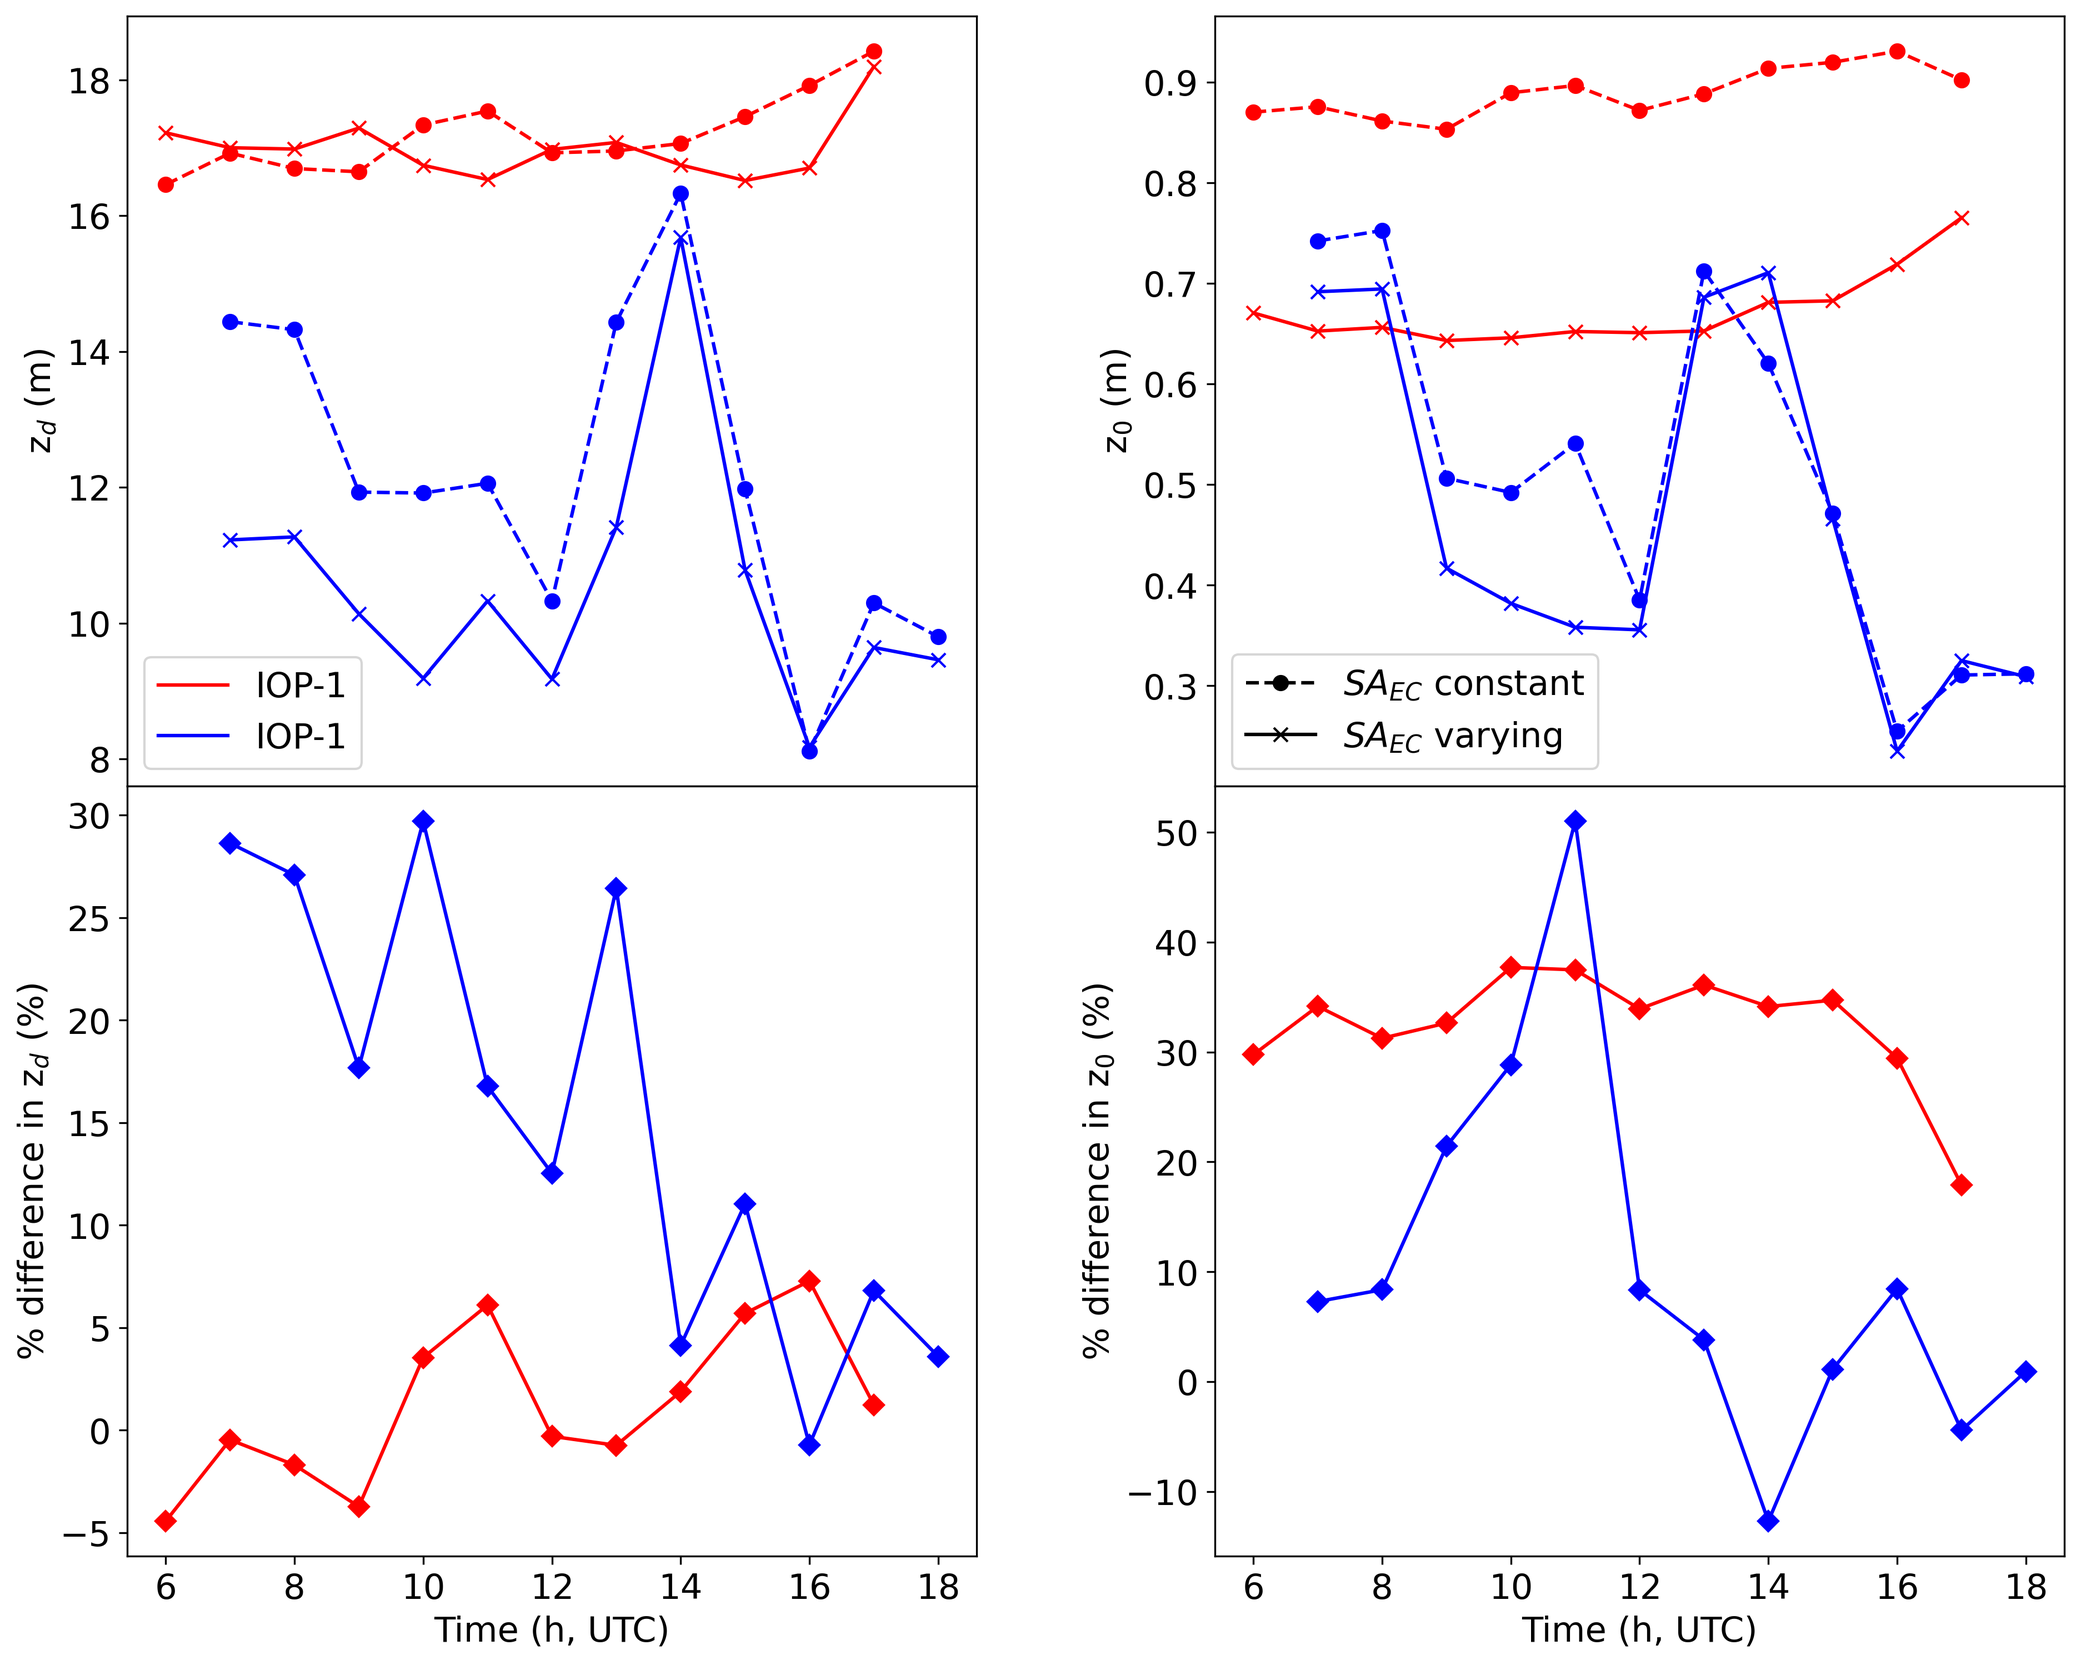
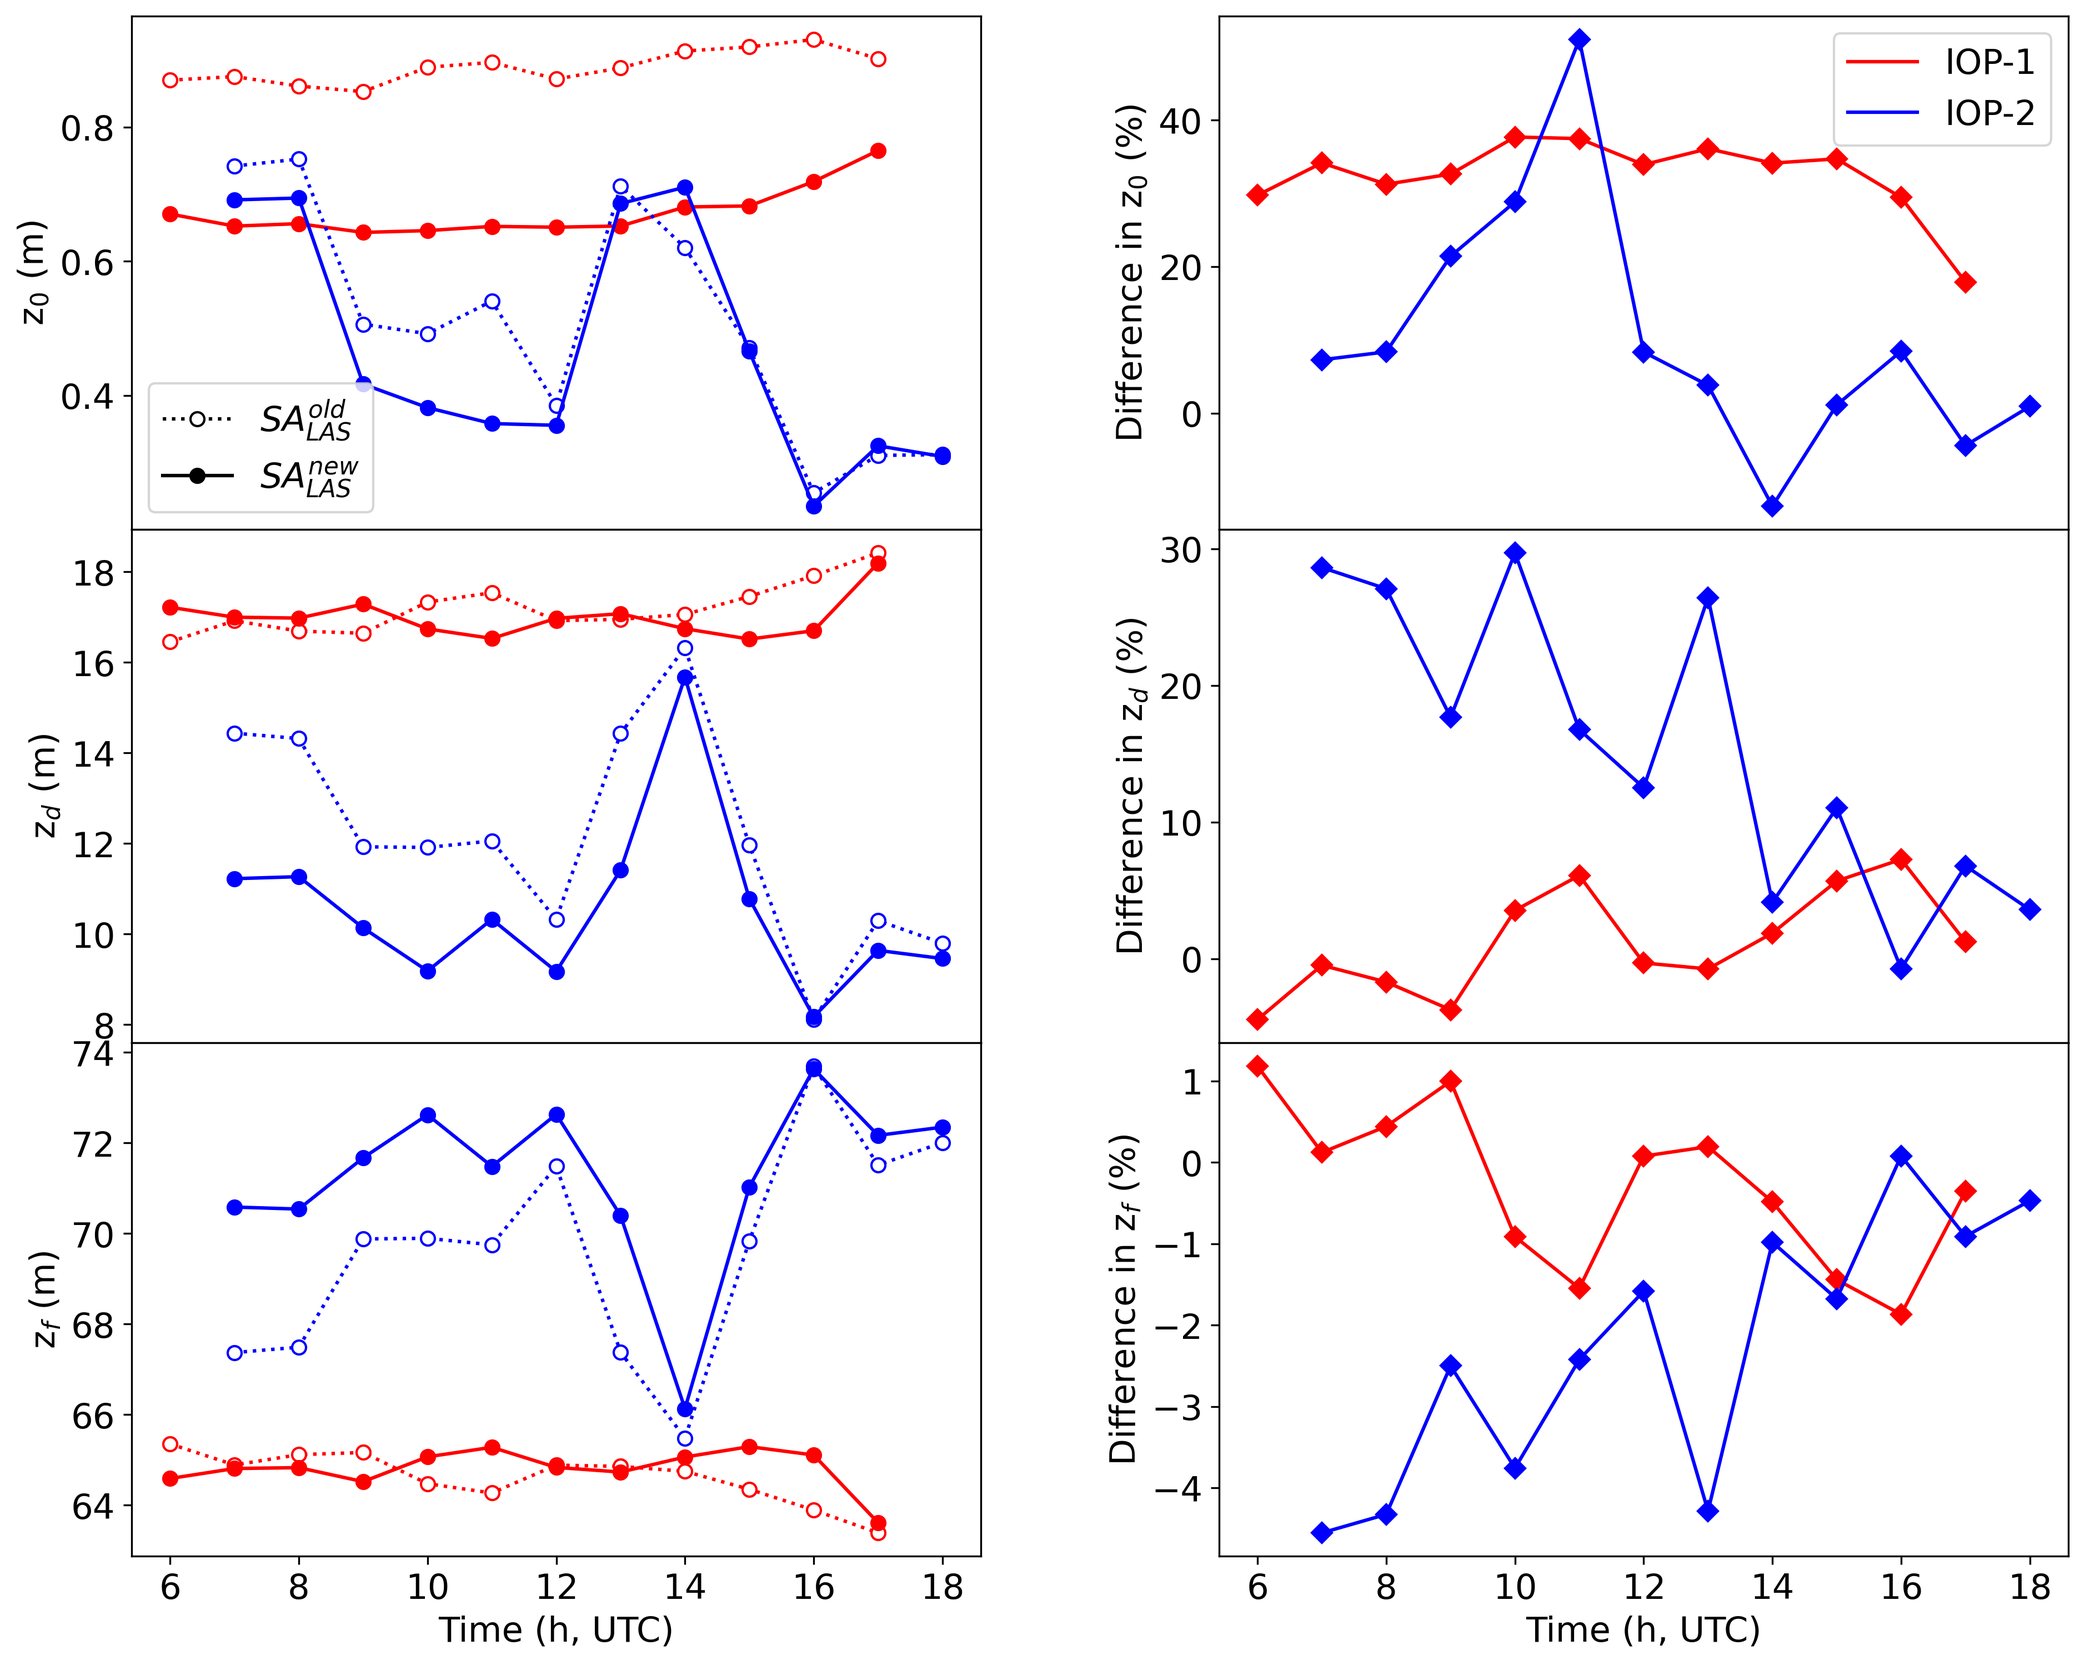
update formats of plots

diff --git a/scint_plots/sa_method_tests/sa_method_tests.py b/scint_plots/sa_method_tests/sa_method_tests.py
@@ -5,8 +5,26 @@ import matplotlib.pyplot as plt
 from matplotlib import gridspec
 import matplotlib as mpl
 import numpy as np
+from scint_flux import run_function
 
 mpl.rcParams.update({'font.size': 15})
+
+
+def retrieve_z_fb(path='BCT_IMU'):
+    """
+
+    :return:
+    """
+
+    bdsm_path = 'D:/Documents/scintools/example_inputs/rasters/height_surface_4m.tif'
+    cdsm_path = 'D:/Documents/scintools/example_inputs/rasters/height_veg_4m.tif'
+    dem_path = 'D:/Documents/scintools/example_inputs/rasters/height_terrain_4m.tif'
+
+    scint_path_dict = run_function.construct_path(path, bdsm_path, cdsm_path, dem_path)
+
+    z_fb = scint_path_dict['z_fb']
+
+    return z_fb
 
 
 def percentage_change(col1, col2):
@@ -82,56 +100,6 @@ def plot_method_tests(df):
     :return:
     """
 
-    # plotting
-    fig = plt.figure(figsize=(15, 12))
-    spec = gridspec.GridSpec(ncols=2, nrows=2)
-
-    ax1 = plt.subplot(spec[0])
-    ax2 = plt.subplot(spec[1])
-    ax3 = plt.subplot(spec[2])
-    ax4 = plt.subplot(spec[3])
-
-    linestyles = {'constant': '--', 'varying': '-'}
-    markers = {'constant': 'o', 'varying': 'x'}
-    colours = {'IOP1': 'red', 'IOP2': 'blue'}
-
-    # zd
-    # IOP1
-    ax1.plot(df.index.values, df.z_d_123_constant.values, marker=markers['constant'], linestyle=linestyles['constant'],
-             color=colours['IOP1'])
-    ax1.plot(df.index.values, df.z_d_123_varying.values, marker=markers['varying'], color=colours['IOP1'],
-             linestyle=linestyles['varying'])
-    # IOP2
-    ax1.plot(df.index.values, df.z_d_126_constant.values, marker=markers['constant'], linestyle=linestyles['constant'],
-             color=colours['IOP2'])
-    ax1.plot(df.index.values, df.z_d_126_varying.values, marker=markers['varying'], color=colours['IOP2'],
-             linestyle=linestyles['varying'])
-
-    ax1.plot([], [], color=colours['IOP1'], label='IOP-1')
-    ax1.plot([], [], color=colours['IOP2'], label='IOP-1')
-    ax1.legend()
-
-    ax1.set_ylabel('z$_{d}$ (m)')
-
-    # z0
-    # IOP1
-    ax2.plot(df.index.values, df.z_0_123_constant.values, marker=markers['constant'], linestyle=linestyles['constant'],
-             color=colours['IOP1'])
-    ax2.plot(df.index.values, df.z_0_123_varying.values, marker=markers['varying'], color=colours['IOP1'],
-             linestyle=linestyles['varying'])
-    # IOP2
-    ax2.plot(df.index.values, df.z_0_126_constant.values, marker=markers['constant'], linestyle=linestyles['constant'],
-             color=colours['IOP2'])
-    ax2.plot(df.index.values, df.z_0_126_varying.values, marker=markers['varying'], color=colours['IOP2'],
-             linestyle=linestyles['varying'])
-
-    ax2.plot([], [], color='black', marker=markers['constant'], linestyle=linestyles['constant'],
-             label='$SA_{EC}$ constant')
-    ax2.plot([], [], color='black', marker=markers['varying'], linestyle=linestyles['varying'], label='$SA_{EC}$ varying')
-    ax2.legend()
-
-    ax2.set_ylabel('z$_{0}$ (m)')
-
     # percentage difference
 
     df['per_diff_zd_123'] = percentage_change(df['z_d_123_varying'], df['z_d_123_constant'])
@@ -140,30 +108,131 @@ def plot_method_tests(df):
     df['per_diff_z0_123'] = percentage_change(df['z_0_123_varying'], df['z_0_123_constant'])
     df['per_diff_z0_126'] = percentage_change(df['z_0_126_varying'], df['z_0_126_constant'])
 
-    print('zd range: ', min([np.abs(df['per_diff_zd_126']).min(), np.abs(df['per_diff_zd_123']).min()]), ' to ', max([np.abs(df['per_diff_zd_126']).max(), np.abs(df['per_diff_zd_123']).max()]))
-    print('z0 range: ', min([np.abs(df['per_diff_z0_126']).min(), np.abs(df['per_diff_z0_123']).min()]), ' to ', max([np.abs(df['per_diff_z0_126']).max(), np.abs(df['per_diff_z0_123']).max()]))
+    print('zd range: ', min([np.abs(df['per_diff_zd_126']).min(), np.abs(df['per_diff_zd_123']).min()]), ' to ',
+          max([np.abs(df['per_diff_zd_126']).max(), np.abs(df['per_diff_zd_123']).max()]))
+    print('z0 range: ', min([np.abs(df['per_diff_z0_126']).min(), np.abs(df['per_diff_z0_123']).min()]), ' to ',
+          max([np.abs(df['per_diff_z0_126']).max(), np.abs(df['per_diff_z0_123']).max()]))
 
+    stats_zd = pd.concat([df['per_diff_zd_126'], df['per_diff_zd_123']]).dropna()
+    over_10_zd = len(np.where(np.abs(stats_zd) > 10)[0])
+    print('zd ', over_10_zd, ' out of ', len(stats_zd))
 
-    # plot
-    # zd
-    # I0P1
-    ax3.plot(df.index.values, df.per_diff_zd_123.values, marker='D', color=colours['IOP1'])
+    stats_z0 = pd.concat([df['per_diff_z0_126'], df['per_diff_z0_123']]).dropna()
+    over_10_z0 = len(np.where(np.abs(stats_z0) > 10)[0])
+    print('z0 ', over_10_z0, ' out of ', len(stats_z0))
 
-    # IOP2
-    ax3.plot(df.index.values, df.per_diff_zd_126.values, marker='D', color=colours['IOP2'])
+    # get effective beam height
+    z_fb = retrieve_z_fb()
 
-    ax3.set_ylabel('% difference in z$_{d}$ (%)')
+    # adding these to the sa method test df
+    df['z_f_123_constant'] = z_fb - df.z_d_123_constant
+    df['z_f_126_constant'] = z_fb - df.z_d_126_constant
+
+    df['z_f_123_varying'] = z_fb - df.z_d_123_varying
+    df['z_f_126_varying'] = z_fb - df.z_d_126_varying
+
+    df['per_diff_zf_123'] = percentage_change(df['z_f_123_varying'], df['z_f_123_constant'])
+    df['per_diff_zf_126'] = percentage_change(df['z_f_126_varying'], df['z_f_126_constant'])
+
+    stats_zf = pd.concat([df['per_diff_zf_126'], df['per_diff_zf_123']]).dropna()
+
+    print('zf range: ', min(np.abs(stats_zf)), ' to ', max(np.abs(stats_zf)))
+
+    # plotting
+    fig = plt.figure(figsize=(15, 12))
+    spec = gridspec.GridSpec(ncols=2, nrows=3)
+
+    ax1 = plt.subplot(spec[0])
+    ax2 = plt.subplot(spec[1])
+    ax3 = plt.subplot(spec[2])
+    ax4 = plt.subplot(spec[3])
+    ax5 = plt.subplot(spec[4])
+    ax6 = plt.subplot(spec[5])
+
+    linestyles = {'constant': ':', 'varying': '-'}
+    markers = {'constant': 'o', 'varying': 'o'}
+    colours = {'IOP1': 'red', 'IOP2': 'blue'}
 
     # z0
-    # I0P1
-    ax4.plot(df.index.values, df.per_diff_z0_123.values, marker='D', color=colours['IOP1'])
+    # IOP1
+    ax1.plot(df.index.values, df.z_0_123_constant.values, marker=markers['constant'], linestyle=linestyles['constant'],
+             color=colours['IOP1'], markerfacecolor='white')
+    ax1.plot(df.index.values, df.z_0_123_varying.values, marker=markers['varying'], color=colours['IOP1'],
+             linestyle=linestyles['varying'])
     # IOP2
-    ax4.plot(df.index.values, df.per_diff_z0_126.values, marker='D', color=colours['IOP2'])
+    ax1.plot(df.index.values, df.z_0_126_constant.values, marker=markers['constant'], linestyle=linestyles['constant'],
+             color=colours['IOP2'],  markerfacecolor='white')
+    ax1.plot(df.index.values, df.z_0_126_varying.values, marker=markers['varying'], color=colours['IOP2'],
+             linestyle=linestyles['varying'])
 
-    ax4.set_ylabel('% difference in z$_{0}$ (%)')
+    ax1.plot([], [], color='black', marker=markers['constant'], linestyle=linestyles['constant'],  markerfacecolor='white',
+             label='$SA_{LAS}^{old}$')
+    ax1.plot([], [], color='black', marker=markers['varying'], linestyle=linestyles['varying'],
+             label='$SA_{LAS}^{new}$')
+    ax1.legend()
 
-    ax3.set_xlabel('Time (h, UTC)')
-    ax4.set_xlabel('Time (h, UTC)')
+    ax1.set_ylabel('z$_{0}$ (m)')
+
+    # z0 % diff
+    # I0P1
+    ax2.plot(df.index.values, df.per_diff_z0_123.values, marker='D', color=colours['IOP1'])
+    # IOP2
+    ax2.plot(df.index.values, df.per_diff_z0_126.values, marker='D', color=colours['IOP2'])
+
+    ax2.set_ylabel('Difference in z$_{0}$ (%)')
+
+    ax2.plot([], [], color=colours['IOP1'], label='IOP-1')
+    ax2.plot([], [], color=colours['IOP2'], label='IOP-2')
+    ax2.legend()
+
+    # zd
+    # IOP1
+    ax3.plot(df.index.values, df.z_d_123_constant.values, marker=markers['constant'], linestyle=linestyles['constant'],
+             color=colours['IOP1'], markerfacecolor='white')
+    ax3.plot(df.index.values, df.z_d_123_varying.values, marker=markers['varying'], color=colours['IOP1'],
+             linestyle=linestyles['varying'])
+    # IOP2
+    ax3.plot(df.index.values, df.z_d_126_constant.values, marker=markers['constant'], linestyle=linestyles['constant'],
+             color=colours['IOP2'],  markerfacecolor='white')
+    ax3.plot(df.index.values, df.z_d_126_varying.values, marker=markers['varying'], color=colours['IOP2'],
+             linestyle=linestyles['varying'])
+
+    ax3.set_ylabel('z$_{d}$ (m)')
+
+    # zd % diff
+    # I0P1
+    ax4.plot(df.index.values, df.per_diff_zd_123.values, marker='D', color=colours['IOP1'])
+
+    # IOP2
+    ax4.plot(df.index.values, df.per_diff_zd_126.values, marker='D', color=colours['IOP2'])
+
+    ax4.set_ylabel('Difference in z$_{d}$ (%)')
+
+    # zf
+    # IOP1
+    ax5.plot(df.index.values, df.z_f_123_constant.values, marker=markers['constant'], linestyle=linestyles['constant'],
+             color=colours['IOP1'],  markerfacecolor='white')
+    ax5.plot(df.index.values, df.z_f_123_varying.values, marker=markers['varying'], color=colours['IOP1'],
+             linestyle=linestyles['varying'])
+    # IOP2
+    ax5.plot(df.index.values, df.z_f_126_constant.values, marker=markers['constant'], linestyle=linestyles['constant'],
+             color=colours['IOP2'],  markerfacecolor='white')
+    ax5.plot(df.index.values, df.z_f_126_varying.values, marker=markers['varying'], color=colours['IOP2'],
+             linestyle=linestyles['varying'])
+
+    ax5.set_ylabel('z$_{f}$ (m)')
+
+    # zf % diff
+    # I0P1
+    ax6.plot(df.index.values, df.per_diff_zf_123.values, marker='D', color=colours['IOP1'])
+
+    # IOP2
+    ax6.plot(df.index.values, df.per_diff_zf_126.values, marker='D', color=colours['IOP2'])
+
+    ax6.set_ylabel('Difference in z$_{f}$ (%)')
+
+    ax5.set_xlabel('Time (h, UTC)')
+    ax6.set_xlabel('Time (h, UTC)')
 
     fig.subplots_adjust(wspace=0.28, hspace=0)
 
@@ -173,7 +242,6 @@ def plot_method_tests(df):
 
 
 if __name__ == '__main__':
-
     current_dir = os.getcwd().replace('\\', '/') + '/'
     sa_test_dir = current_dir + 'SA_constant/'
 

diff --git a/scint_plots/stability_and_SA/stability_and_SA_funs.py b/scint_plots/stability_and_SA/stability_and_SA_funs.py
@@ -6,26 +6,9 @@ from matplotlib.dates import DateFormatter
 import matplotlib as mpl
 
 from scint_fp.create_input_csvs import wx_u_v_components
-from scint_flux import run_function
+from scint_plots.sa_method_tests import sa_method_tests
 
 mpl.rcParams.update({'font.size': 15})
-
-
-def retrieve_z_fb(path='BCT_IMU'):
-    """
-
-    :return:
-    """
-
-    bdsm_path = 'D:/Documents/scintools/example_inputs/rasters/height_surface_4m.tif'
-    cdsm_path = 'D:/Documents/scintools/example_inputs/rasters/height_veg_4m.tif'
-    dem_path = 'D:/Documents/scintools/example_inputs/rasters/height_terrain_4m.tif'
-
-    scint_path_dict = run_function.construct_path(path, bdsm_path, cdsm_path, dem_path)
-
-    z_fb = scint_path_dict['z_fb']
-
-    return z_fb
 
 
 def stability_and_sa(df_dict, df_sa_constant):
@@ -178,7 +161,8 @@ def stability_and_sa(df_dict, df_sa_constant):
     max_time = max(df_123_10.index.max(), df_126_10.index.max(), df_126_60.index.max(), df_123_60.index.max())
 
     # get effective beam height
-    z_fb = retrieve_z_fb()
+    z_fb = sa_method_tests.retrieve_z_fb()
+
     # adding these to the sa method test df
     df_sa_constant['z_f_123_constant'] = z_fb - df_sa_constant.z_d_123_constant
     df_sa_constant['z_f_126_constant'] = z_fb - df_sa_constant.z_d_126_constant
@@ -270,7 +254,8 @@ def stability_and_sa(df_dict, df_sa_constant):
     ax5.plot(df_sa_constant.index.values, df_sa_constant.z_f_123_constant.values, color='red', marker='o',
              markerfacecolor='white', linestyle=':')
 
-    ax5.plot([], [], color='black', marker='o', markerfacecolor='white', linestyle=':', label='60 min SA test')
+    ax5.plot([], [], color='black', marker='o', markerfacecolor='white', linestyle=':', label='$SA_{LAS}^{old}$')
+    ax5.plot([], [], color='black', marker='o', label='$SA_{LAS}^{new}$')
     ax5.legend()
 
     ax5.set_ylabel('z$_{f}$ (m)')

diff --git a/scint_plots/sa_method_tests/sa_method_test_map.py b/scint_plots/sa_method_tests/sa_method_test_map.py
@@ -14,13 +14,15 @@ file_list = sa_lines.find_SA_rasters(sa_main_dir=sa_test_dir)
 
 colour_list = ['red', 'red', 'blue', 'blue']
 
-custom_linetype = ['-', '--', '-', '--']
+custom_linetype = ['-', ':', '-', ':']
 
-custom_marker = ['x', 'o', 'x', 'o']
+custom_marker = ['o', 'o', 'o', 'o']
 
-custom_labels = ['IOP-1 $SA_{EC}$ varying', 'IOP-1 $SA_{EC}$ constant', 'IOP-2 $SA_{EC}$ varying', 'IOP-2 $SA_{EC}$ constant']
+custom_facecolours = ['red', 'white', 'blue', 'white']
 
-sa_lines.plot_sa_lines(file_list=file_list, colour_list=colour_list, doy_choice=False, save_path=current_dir, custom_labels=custom_labels, custom_linetype=custom_linetype, custom_marker=custom_marker)
+custom_labels = ['IOP-1 $SA_{LAS}^{new}$', 'IOP-1 $SA_{LAS}^{old}$', 'IOP-2 $SA_{LAS}^{new}$', 'IOP-2 $SA_{LAS}^{old}$']
+
+sa_lines.plot_sa_lines(file_list=file_list, colour_list=colour_list, doy_choice=False, save_path=current_dir, custom_labels=custom_labels, custom_linetype=custom_linetype, custom_marker=custom_marker, custom_facecolours=custom_facecolours)
 
 print('end')
 
